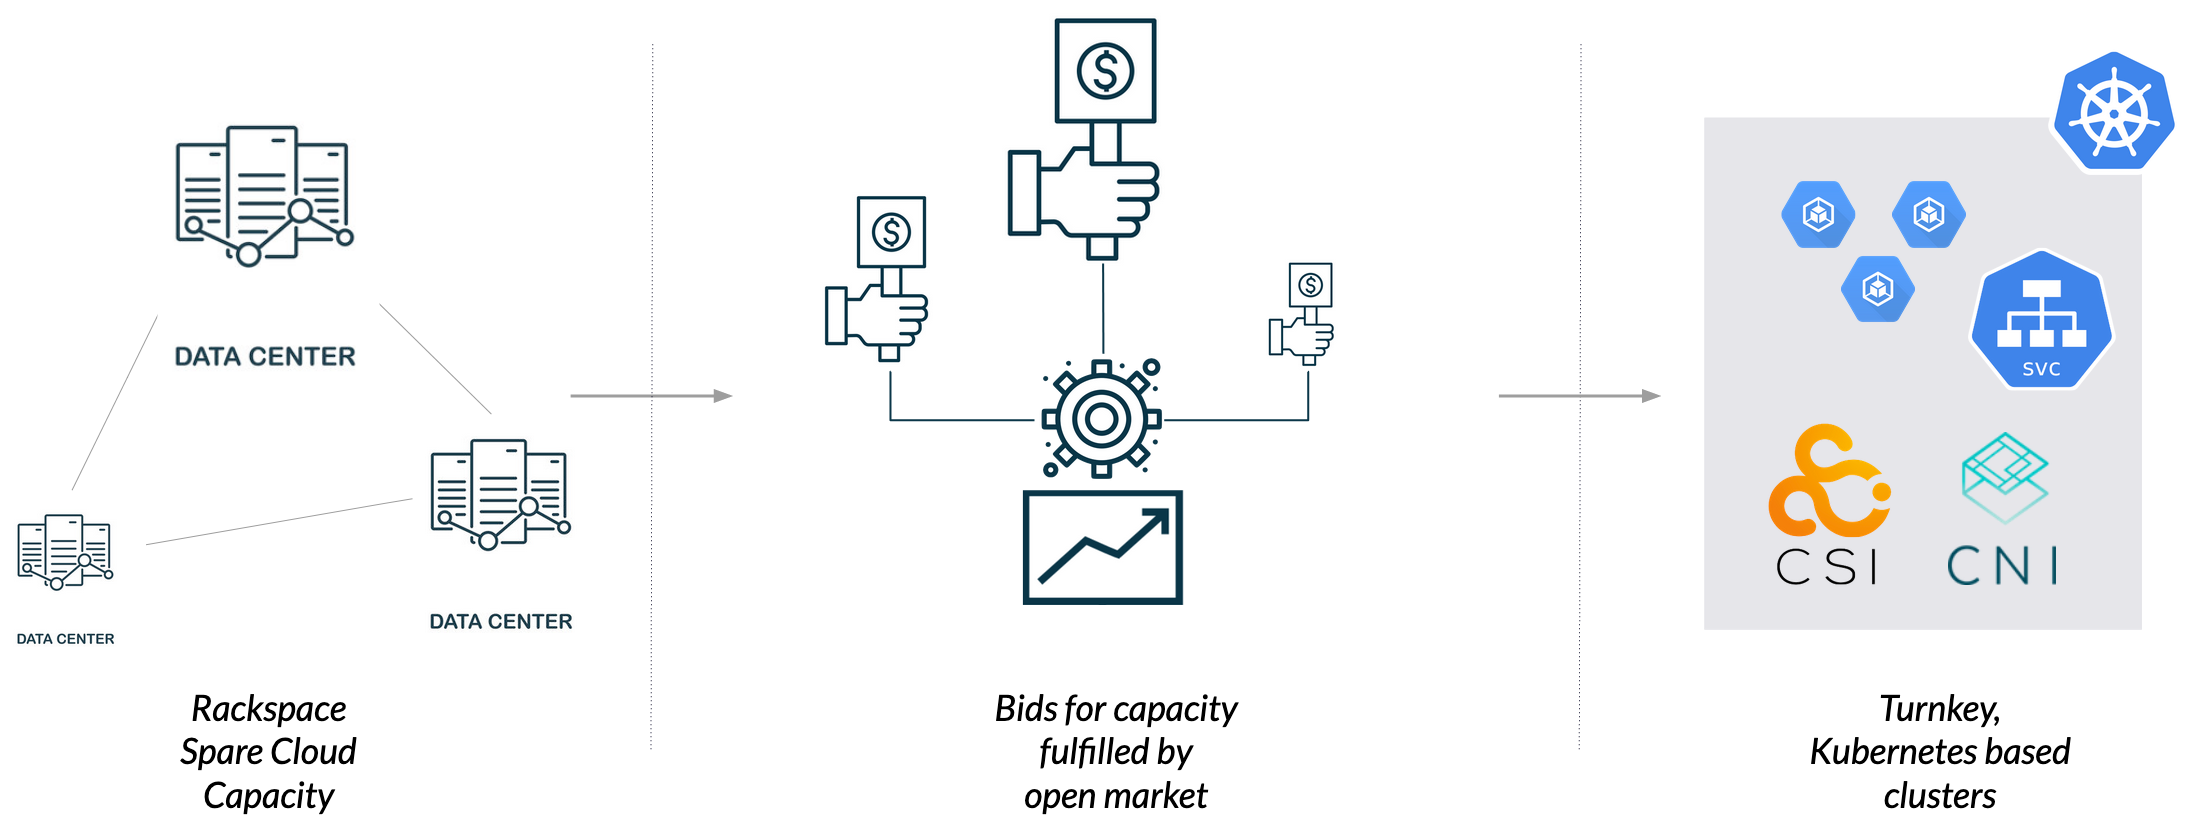
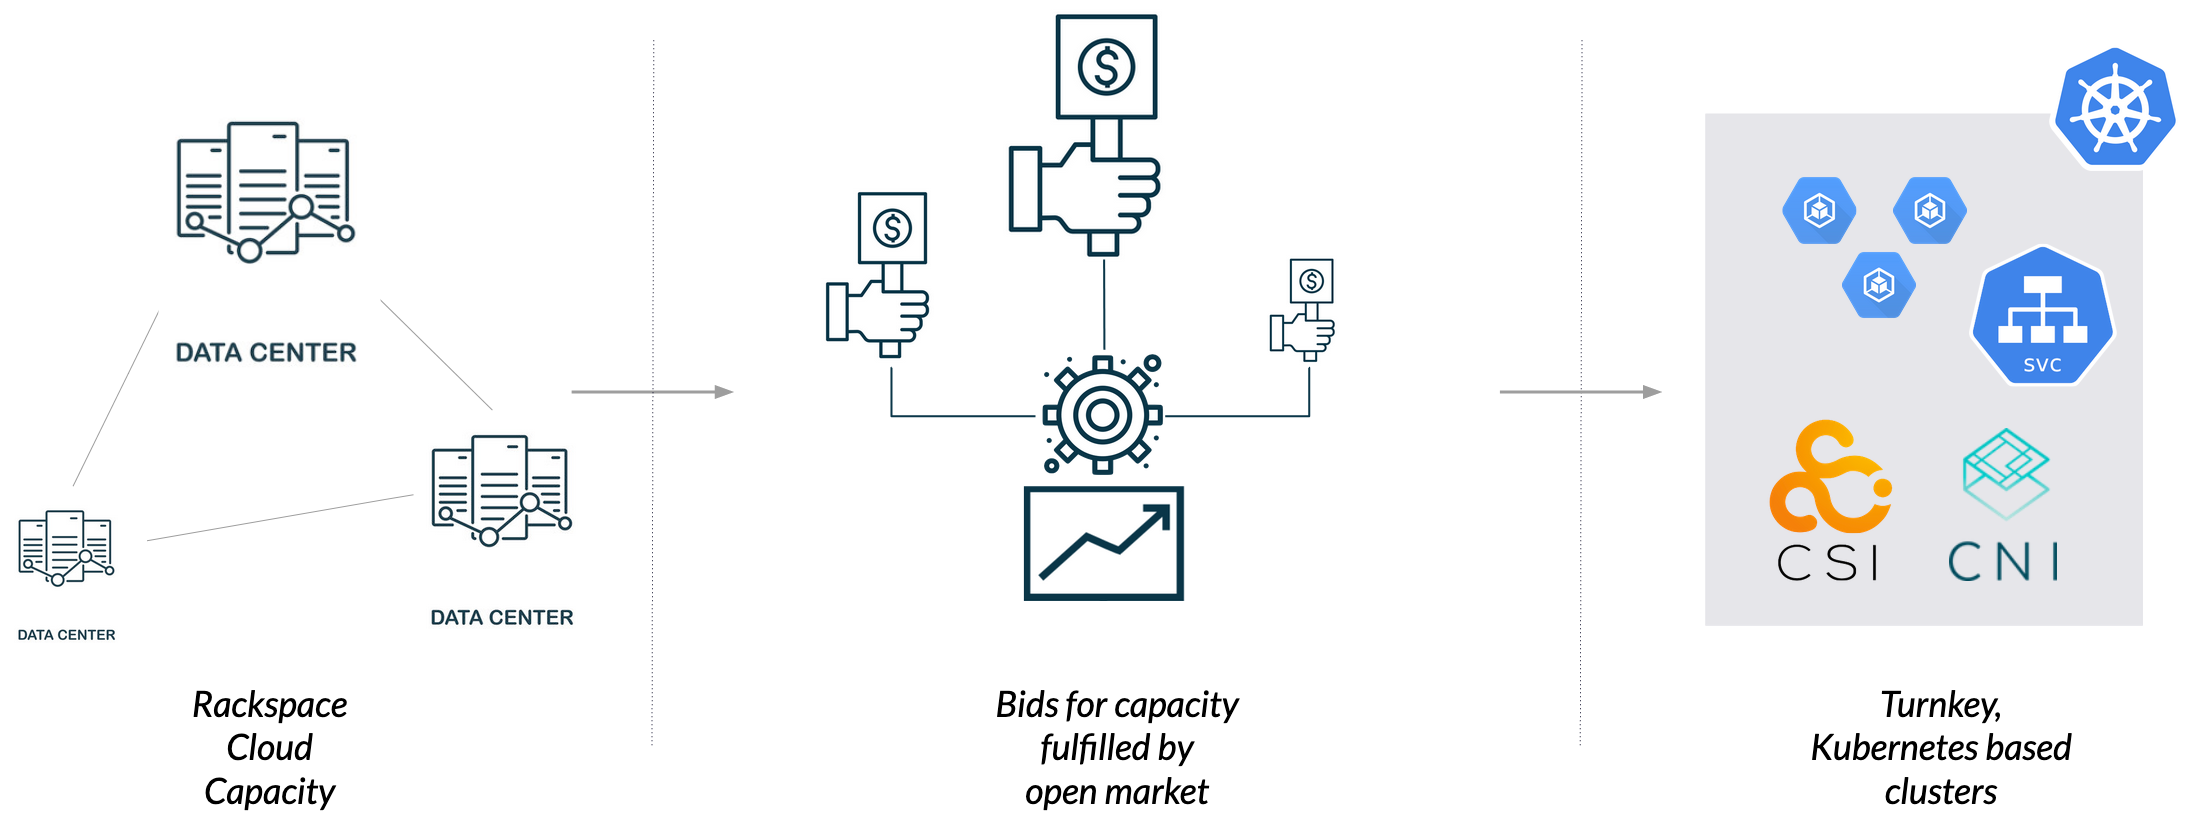
Changed some wording & added note for spot savings

diff --git a/index.html b/index.html
@@ -96,7 +96,7 @@
             <h4>Fully managed Kubernetes</h4>
             <h4>Rich Add-Ons</h4>
             <div>
-              <p>Bid for cloud servers from Rackspace's large inventory of spare cloud capacity.  Bids are fulfilled by an open market auction, within minutes.</p>
+              <p>Bid for cloud servers from Rackspace's large inventory of cloud capacity.  Bids are fulfilled by an open market auction, within minutes.</p>
               <p>The market price for servers is determined by the final cut-off price in the auction. Existing bids for capacity are not pre-empted unless the market price exceeds the highest price in the bid.</p>
             </div>
             <div>
@@ -120,7 +120,7 @@
             <div class="use-case-sm">
               <h4>Open market auction</h4>
               <div>
-                <p>Bid for spare server capacity from Rackspace's large inventory of spare cloud capacity.  Bids are fulfilled by an open market auction, and fulfilled within minutes.</p>
+                <p>Bid for server capacity from Rackspace's large inventory of cloud capacity.  Bids are fulfilled by an open market auction, and fulfilled within minutes.</p>
                 <p>The market price for servers is determined by the final cut-off price for capacity (the lowest winning bid). Existing bids for capacity are not pre-empted unless the market price exceeds the highest price in the bid.</p>
               </div>
             </div>
@@ -186,30 +186,33 @@
                 </div>
                 <div class="comparison-cell">
                   <div id="mobile-spot-a">
-                    <div class="total-price">From $12.88 /mo</div>
+                    <div class="total-price">From $12.88 /mo*</div>
                     <div class="price-breakdown">
                       <div>4 x $0.72 /mo</div>
                       <div>+ $0</div>
                       <div>+ $10</div>
                     </div>
+                    <div class="spot-note">* Based on current market prices. Market prices will vary over time with demand and supply.</div>
                   </div>
                   <div id="mobile-spot-b" style="display: none">
-                    <div class="total-price">From $106.36 /mo</div>
+                    <div class="total-price">From $106.36 /mo*</div>
                     <div class="price-breakdown">
                       <div>8 x $0.72 /mo</div>
                       <div>+ 2 x $40</div>
                       <div>+ 2 x 5 x $0.06</div>
                       <div>+ 2 x $10</div>
                     </div>
+                    <div class="spot-note">* Based on current market prices. Market prices will vary over time with demand and supply.</div>
                   </div>
                   <div id="mobile-spot-c" style="display: none">
-                    <div class="total-price">From $259.04 /mo</div>
+                    <div class="total-price">From $259.04 /mo*</div>
                     <div class="price-breakdown">
                       <div>64 x $0.72 /mo</div>
                       <div>+ 4 x $40</div>
                       <div>+ 12 x 20 x $0.06</div>
                       <div>+ 4 x $10</div>
                     </div>
+                    <div class="spot-note">* Based on current market prices. Market prices will vary over time with demand and supply.</div>
                   </div>
                 </div>
                 <div class="comparison-header">
@@ -319,30 +322,33 @@
                 </div>
                 <div class="comparison-cell">
                   <div id="spot-a">
-                    <div class="total-price">From $12.88 /mo</div>
+                    <div class="total-price">From $12.88 /mo*</div>
                     <div class="price-breakdown">
                       <div>4 x $0.72 /mo</div>
                       <div>+ $0</div>
                       <div>+ $10</div>
                     </div>
+                    <div class="spot-note">* Based on current market prices. Market prices will vary over time with demand and supply.</div>
                   </div>
                   <div id="spot-b" style="display: none">
-                    <div class="total-price">From $106.36 /mo</div>
+                    <div class="total-price">From $106.36 /mo*</div>
                     <div class="price-breakdown">
                       <div>8 x $0.72 /mo</div>
                       <div>+ 2 x $40</div>
                       <div>+ 2 x 5 x $0.06</div>
                       <div>+ 2 x $10</div>
                     </div>
+                    <div class="spot-note">* Based on current market prices. Market prices will vary over time with demand and supply.</div>
                   </div>
                   <div id="spot-c" style="display: none">
-                    <div class="total-price">From $259.04 /mo</div>
+                    <div class="total-price">From $259.04 /mo*</div>
                     <div class="price-breakdown">
                       <div>64 x $0.72 /mo</div>
                       <div>+ 4 x $40</div>
                       <div>+ 12 x 20 x $0.06</div>
                       <div>+ 4 x $10</div>
                     </div>
+                    <div class="spot-note">* Based on current market prices. Market prices will vary over time with demand and supply.</div>
                   </div>
                 </div>
                 <div class="comparison-cell">

diff --git a/static-files/style.css b/static-files/style.css
@@ -463,6 +463,13 @@ h4 {
   text-align: center;
 }
 
+.spot-note {
+  font-size: 12px;
+  text-align: center;
+  line-height: 1.1em;
+  margin-top: 12px;
+}
+
 .use-cases-section {
   background: #efefef;
   padding: 40px 0px;
